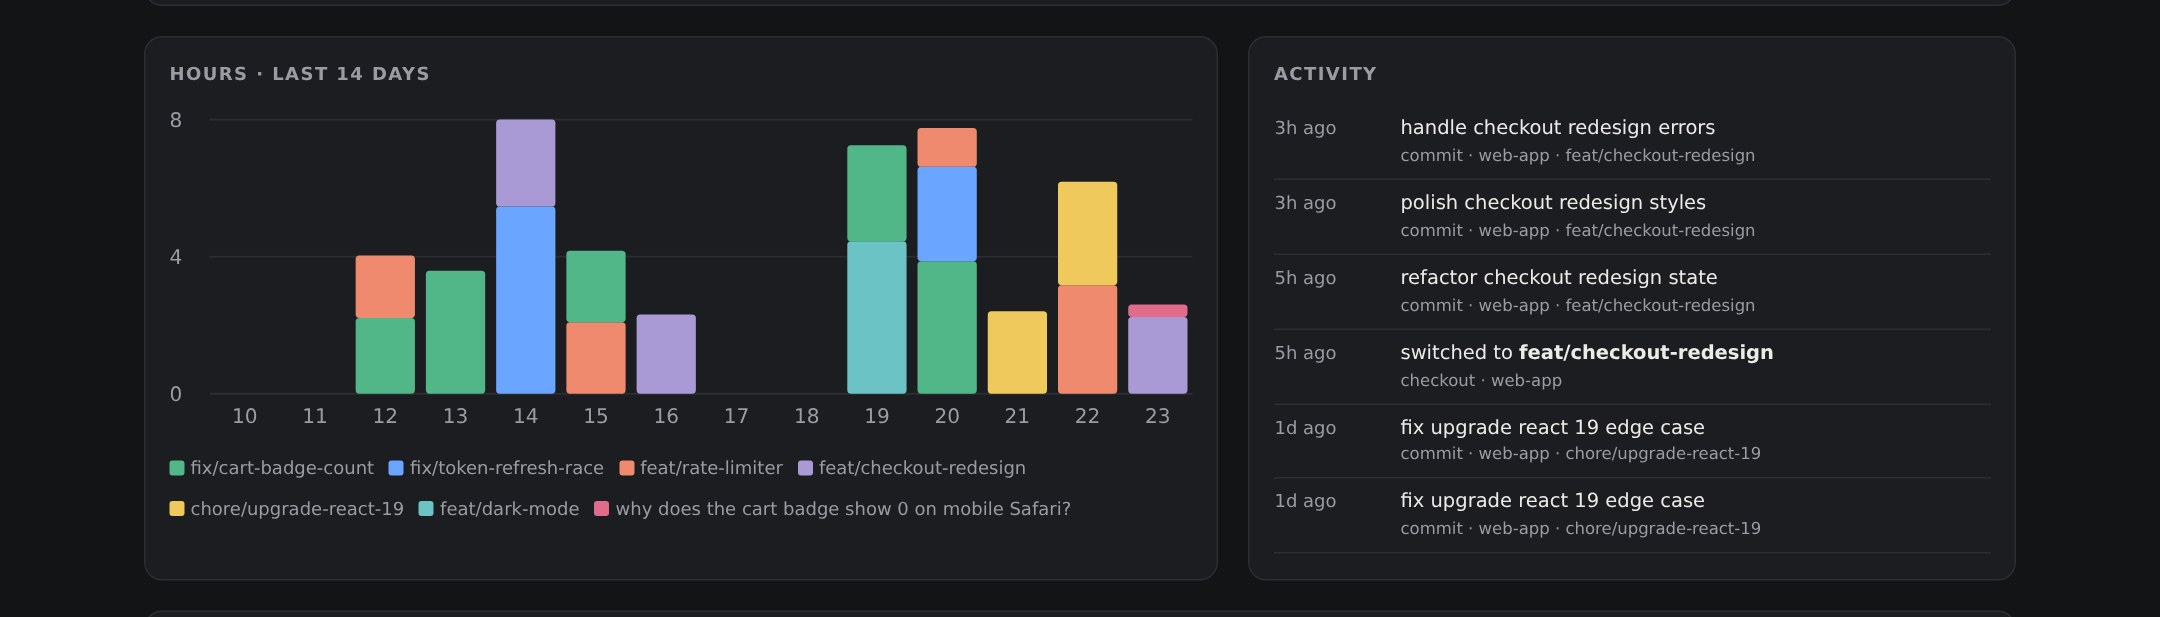
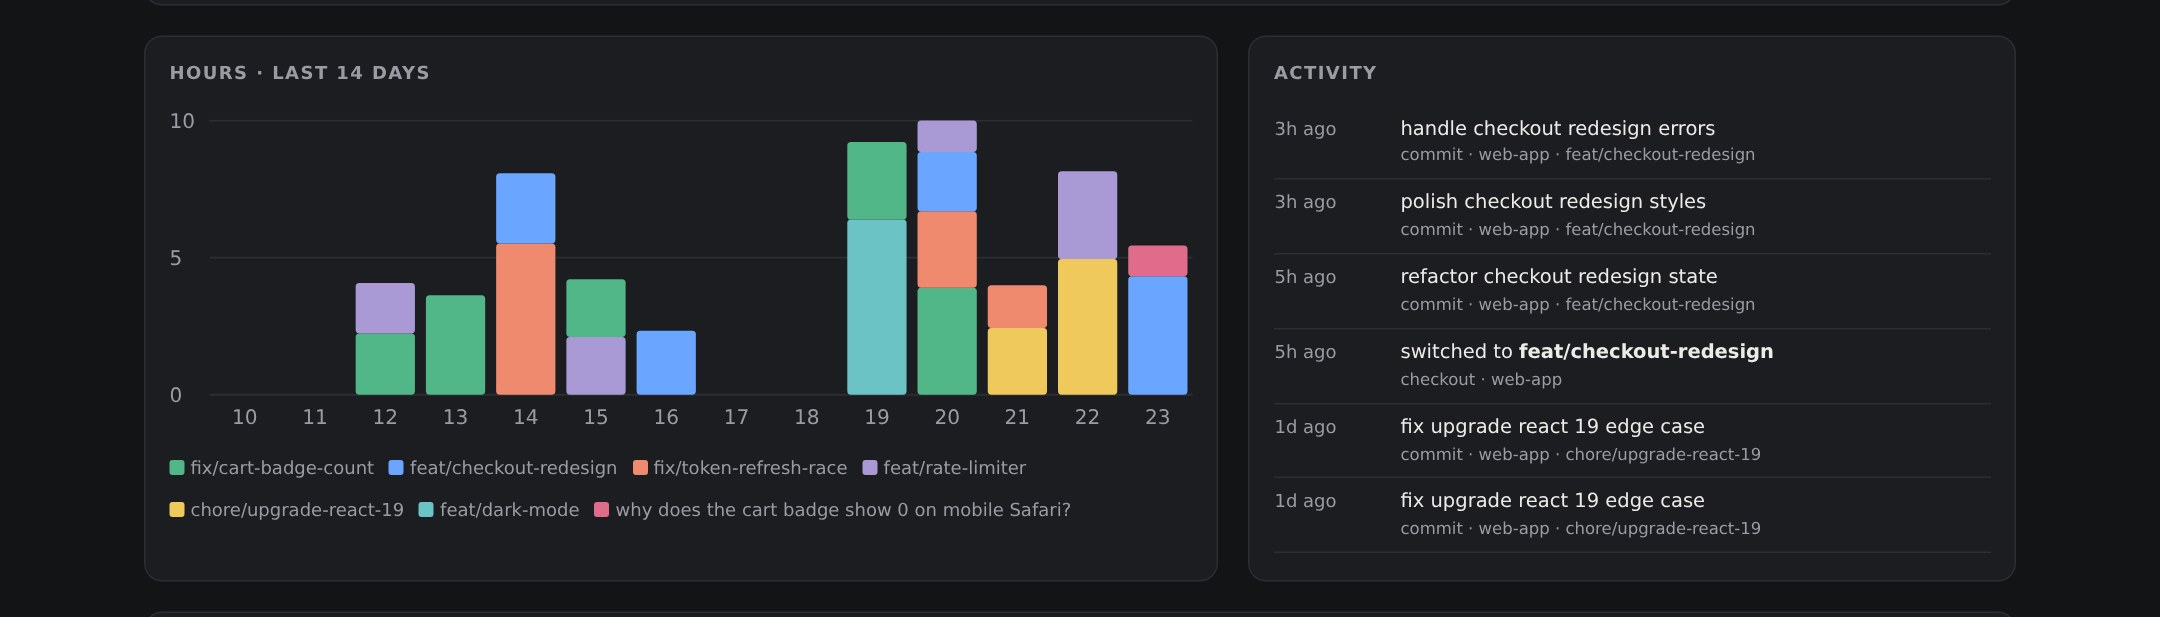
README: purpose section and new screenshots
Say plainly what the project is for (where your time went when you code
with agents), who it helps and how, and that it's a personal, local tool
rather than monitoring. New screenshots of the board with the 'Where the
time went' panel, the panel with an explanation open, the task details
with agent sessions and Open in Claude Code, and the chart.

diff --git a/README.md b/README.md
@@ -17,17 +17,35 @@ for you. It runs on your machine: no account, no cloud, nothing to `pip install`
 
 ▶ **[Watch the 30-second launch video](https://github.com/tmtony98/git-timelog/releases/download/v0.7.0/git-timelog-launch.mp4)** (mp4, 4 MB)
 
-![Dashboard: project tabs, totals, and a board with an agent-session card, idle branches on hold and merged ones done](docs/dashboard.jpg)
+![The dashboard: project tabs, totals, a board with an agent-session card, an idle branch on hold, and "Where the time went" below it](docs/dashboard.jpg)
 
-![Hours per day per task, including agent sessions, and the activity feed](docs/chart.jpg)
+## Purpose
 
-## Why
+**git timelog answers one question for developers who code with AI agents: where did my time
+go, and on what?**
 
-Coding agents changed how a task starts. You open a session, ask questions and read code with
-the agent, and only then create a branch, if you create one at all. Time trackers like Clockify
-or Toggl miss all of that, because nobody remembers to press start.
+Coding agents changed how work happens. A task now starts with a conversation (you ask, read
+code with the agent, try an idea) and only later becomes a branch, if it ever does. Between
+prompts you review diffs, test, and steer. Classic time trackers miss all of it, because they
+depend on you pressing start, and nobody does. Git alone misses it too: it only sees commits.
 
-Your agent and git already record what you worked on and when. git timelog reads both.
+Your agent and your repo already record what you worked on and when. git timelog reads both
+and turns them into tasks with honest hours, so that you can:
+
+- **Give a real standup** without reconstructing yesterday from memory: it's written for you.
+- **See what your agent work actually costs:** how much time the agent spent working, and how
+  much was you reading, testing and prompting between its replies.
+- **Know what kind of work filled the week:** features, fixes, chores, or exploring with an
+  agent.
+- **Estimate the next task, or bill a client,** from hours per task instead of guesses.
+- **Pick up where you left off:** every task lists its agent sessions, and one click reopens a
+  Claude Code or Codex conversation.
+
+**It's for you, not about you.** git timelog is a personal tool: it runs on your machine, keeps
+its data in one local file, needs no account, and sends nothing anywhere. It isn't built for
+monitoring anyone. You decide what to share, for example your standup note.
+
+**How it works, in short:**
 
 - **Zero effort.** Agent hooks record each session's prompts and turns; git hooks record branch
   switches, commits and merges. Nothing to start or stop.
@@ -63,7 +81,7 @@ Because the command is named `git-timelog`, git exposes it as a subcommand: `git
 
 - **Board:** todo · doing · on hold · done. Drag cards between columns; hover a card for
   Timer, Log time, Edit (ticket, PR link) and Delete (click twice; Undo appears for a few
-  seconds).
+  seconds). The done column shows its 8 newest cards, with "Show N more" for the rest.
 - **Totals and chart:** hours today, hours this week, active tasks, commits this week, and hours
   per day for the last 14 days.
 - **Activity feed:** recent commits, branch switches and merges.
@@ -71,9 +89,31 @@ Because the command is named `git-timelog`, git exposes it as a subcommand: `git
   you committed, hours per task, what's in progress and on hold. On Linux it's also written every
   weekday at 18:30. Point `standup_dir` at your Obsidian vault to collect them there.
 
+![Hours per day per task, including agent sessions, and the activity feed](docs/chart.jpg)
+
+### Where the time went
+
+Right under the board, for the selected project, this week or the last 4 weeks:
+
+![Where the time went: agent working, you between prompts, git only, timer and logged time, focus, and hours per work type, with an explanation open](docs/insights.jpg)
+
+- **Who did the work:** *agent working* (from your prompt until the agent's reply), *you, between
+  prompts* (from its reply until your next prompt, pauses under 20 minutes), *git only*
+  (estimated from commits and branch switches, where no agent session was running), and *timer
+  and logged* time. Every second is counted once, so the tiles add up to the tasks' hours.
+- **Focus:** how many tasks you put 10+ minutes into on a typical day, and how many days you
+  juggled more than 3.
+- **Work type:** hours per type, from the branch name (`feat/`, `fix/`, `chore/`…) or else the
+  commits' `feat:` / `fix:` style. Agent sessions that never reached a branch count as
+  *exploring*.
+- **Which agent:** shown next to the title (for example "Claude Code, 46 sessions").
+- Each ⓘ explains its number in a popover.
+
 ### Task details
 
 Click a card (or press Enter on it) to open its details. Escape or a click outside closes them.
+
+![Task details: total time split by git, agent, timer and logged; agent sessions with their ID, resume command and an Open in Claude Code button; commits](docs/task-details.jpg)
 
 | Section | What it shows |
 |---|---|
